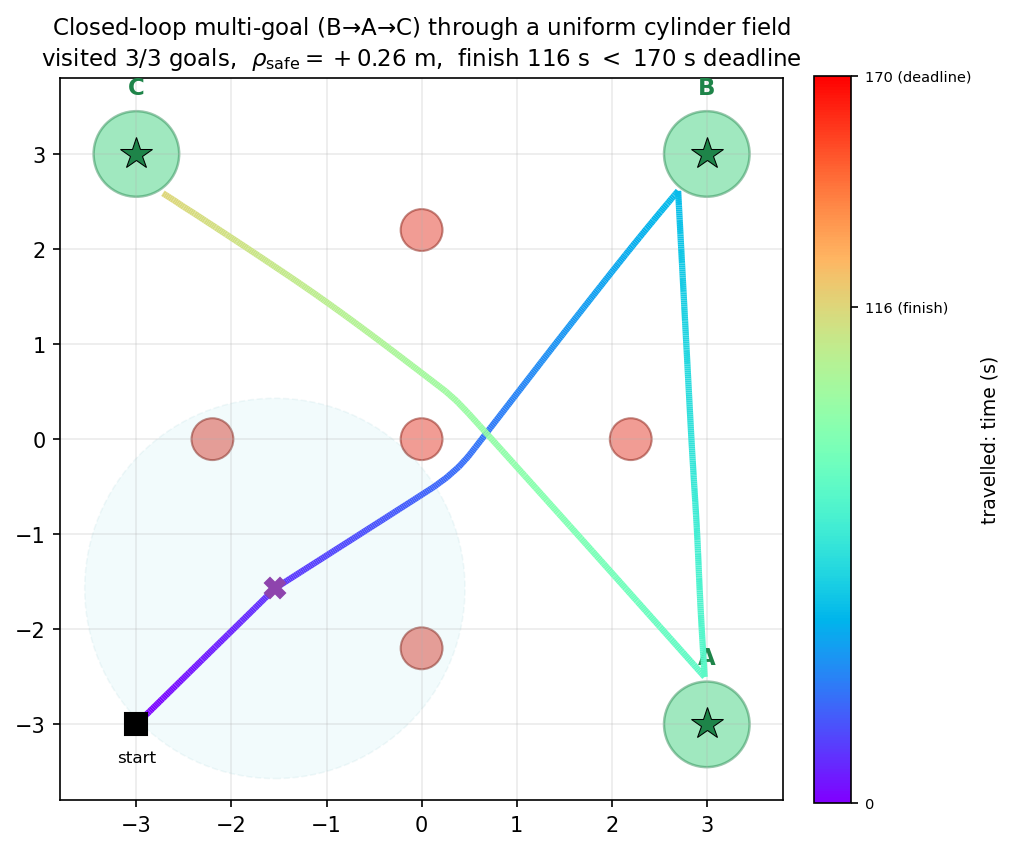
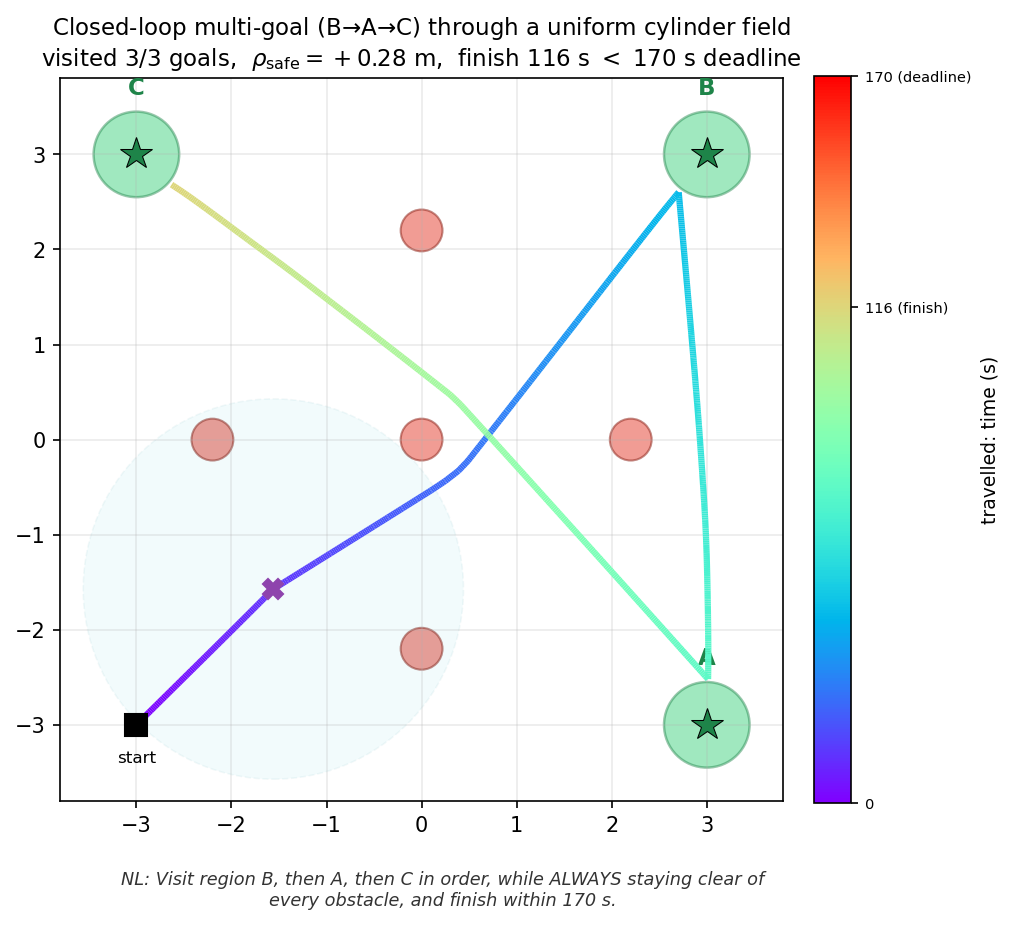
ROS closed loop: same map+task as the 2D demo, and visualise the NL description
- tb3_sim.launch.py + tb3_follower.py default to case `closed_loop_multi` -- the
  SAME uniform cylinder map and multi-goal B->A->C task the 2D demo uses (both
  read sim_ros2/scenario.py), so the two simulations show the identical scenario.
- RViz markers gain a floating TEXT overlay of the task's natural-language
  description (+ STL) and per-goal letter labels (visit order B->A->C).
- 2D demo figure gains the same NL string as a footer (shared via scenario).

Verified (2D headless twin of the follower): 3/3 goals B->A->C, collision-free
(rho_safe=+0.28 m), finished 116 s < 170 s deadline.

diff --git a/sim_ros2/tb3_follower.py b/sim_ros2/tb3_follower.py
@@ -133,6 +133,24 @@ class TB3Follower(Node):
                                          for (x, y, r) in CYLINDERS]
             except Exception:
                 pass
+        # ---- task description for the RViz overlay (NL + STL + goal letters) ----
+        # closed_loop_multi sources its NL/STL/labels from the shared scenario so
+        # the RViz text matches what the 2D demo prints; other cases fall back to
+        # the case's own NL string and A,B,C,... labels.
+        if self.case.get("id") == "closed_loop_multi":
+            try:
+                from sim_ros2.scenario import task_nl, task_stl, GOAL_NAMES
+                self.task_nl, self.task_stl = task_nl(), task_stl()
+                self.goal_names = list(GOAL_NAMES)
+            except Exception:
+                self.task_nl = self.task_stl = ""; self.goal_names = []
+        else:
+            self.task_nl = self.case.get("nl", "")
+            self.task_stl = ""
+            self.goal_names = [chr(ord("A") + i) for i in range(len(self.reaches))]
+        # top of the field (for placing the floating NL text above the scene)
+        self._scene_top = max([gy for (_, gy, _) in self.reaches] + [self.sy]) \
+            if self.reaches else 3.0
 
     # -- callbacks --------------------------------------------------------
     def _on_scan(self, msg):
@@ -483,12 +501,33 @@ class TB3Follower(Node):
             c.pose.position.x, c.pose.position.y = float(o["x"]), float(o["y"])
             c.pose.position.z = 0.25
             arr.markers.append(c)
+        # --- the task's NATURAL-LANGUAGE description, floating above the scene ---
+        if self.task_nl:
+            import textwrap
+            txt = base(Marker.TEXT_VIEW_FACING, "task_nl", 1.0, 0.95, 0.3, 1.0, 0.34)
+            txt.pose.position.x = 0.0
+            txt.pose.position.y = float(self._scene_top) + 1.6
+            txt.pose.position.z = 1.0
+            body = "TASK (NL): " + "\n".join(textwrap.wrap(self.task_nl, 42))
+            if self.task_stl:
+                body += "\nSTL: " + self.task_stl
+            txt.text = body
+            arr.markers.append(txt)
+        # --- goal letter labels above each region (shows the visit order) ---
+        for (gx, gy, gr), name in zip(self.reaches, self.goal_names):
+            lab = base(Marker.TEXT_VIEW_FACING, "goal_labels", 1.0, 1.0, 1.0, 1.0, 0.5)
+            lab.pose.position.x, lab.pose.position.y = float(gx), float(gy)
+            lab.pose.position.z = float(gr) + 0.6
+            lab.text = name
+            arr.markers.append(lab)
         self.markers.publish(arr)
 
 
 def main():
     ap = argparse.ArgumentParser()
-    ap.add_argument("--case", default="cond_reach_either")
+    ap.add_argument("--case", default="closed_loop_multi",
+                    help="planner case; default closed_loop_multi == the SAME "
+                         "map+task as the 2D demo (closed_loop_demo.py)")
     ap.add_argument("--sense-range", type=float, default=3.0)
     ap.add_argument("--replan-period", type=float, default=5.0,
                     help="TeLoGraF re-plan period in seconds (target; bounded "

diff --git a/sim_ros2/launch/tb3_sim.launch.py b/sim_ros2/launch/tb3_sim.launch.py
@@ -6,11 +6,15 @@ red = avoid) -- no walls.  TurtleBot3 senses the cylinders online with its 360
 LiDAR (/scan) and the planner routes around them; the robot drives via /cmd_vel
 (diff-drive) and publishes /odom, so RViz shows it moving for real.
 
-    ros2 launch sim_ros2/launch/tb3_sim.launch.py case:=cond_reach_either
-    ros2 launch sim_ros2/launch/tb3_sim.launch.py case:=cond_reach_either gui:=true rviz:=true
+    ros2 launch sim_ros2/launch/tb3_sim.launch.py            # default: closed_loop_multi
+    ros2 launch sim_ros2/launch/tb3_sim.launch.py gui:=true rviz:=true
+
+The default case `closed_loop_multi` is the SAME uniform cylinder map and the
+SAME multi-goal (B -> A -> C) task as the 2D demo (sim_ros2/closed_loop_demo.py),
+so the two simulations show the identical scenario.
 
 Then drive it with the closed-loop follower:
-    ros2 run ... (see tb3_follower.py)  OR  python3 sim_ros2/tb3_follower.py --case cond_reach_either
+    python3 sim_ros2/tb3_follower.py            # also defaults to closed_loop_multi
 """
 import os
 import sys
@@ -113,7 +117,10 @@ def _setup(context, *args, **kwargs):
 
 def generate_launch_description():
     return LaunchDescription([
-        DeclareLaunchArgument("case", default_value="cond_reach_either"),
+        DeclareLaunchArgument("case", default_value="closed_loop_multi",
+                              description="planner case; default closed_loop_multi"
+                                          " == the SAME map+task as the 2D demo "
+                                          "(sim_ros2/closed_loop_demo.py)."),
         DeclareLaunchArgument("model", default_value="burger",
                               choices=["burger", "waffle", "waffle_pi"]),
         DeclareLaunchArgument("gui", default_value="false",

diff --git a/sim_ros2/closed_loop_demo.py b/sim_ros2/closed_loop_demo.py
@@ -19,7 +19,7 @@ Outputs (top-down, RViz marker colours):
     python3 sim_ros2/closed_loop_demo.py
 """
 from __future__ import annotations
-import io, contextlib, math, sys
+import io, contextlib, math, sys, textwrap
 from pathlib import Path
 import numpy as np
 import matplotlib
@@ -186,6 +186,11 @@ def render(travelled, replan_pts, sensed, goal_arrivals, rho):
     cb.set_ticks([0, round(t_arr), deadline])
     cb.set_ticklabels(["0", f"{t_arr:.0f} (finish)", f"{deadline:.0f} (deadline)"])
     cb.ax.tick_params(labelsize=7)
+    # the task's NATURAL-LANGUAGE description, visualised as a footer (same
+    # string the Gazebo RViz overlay shows -- shared via scenario.task_nl())
+    nl = "NL: " + S.task_nl()
+    fig.text(0.5, 0.005, "\n".join(textwrap.wrap(nl, 78)), ha="center",
+             va="bottom", fontsize=8.5, style="italic", color="#333")
     fig.savefig(OUT / "closed_loop_demo.png", dpi=150, bbox_inches="tight")
     plt.close(fig)
 
